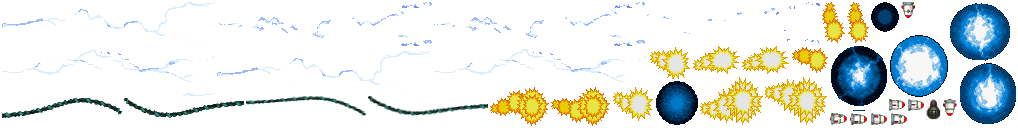
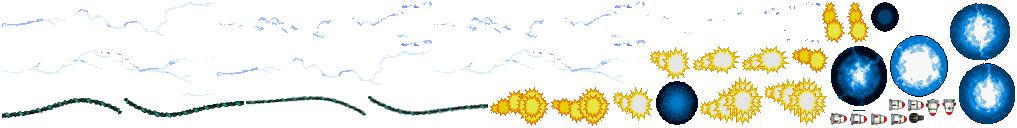
바인드 미사일, 수류탄

diff --git a/Robotopia/Classes/ResourceType.h b/Robotopia/Classes/ResourceType.h
@@ -34,6 +34,7 @@ enum SpriteType
 	ST_MESSAGE_BOX,
 	ST_BAR_CONTAINER,
 	ST_BAR,
+	ST_GRENADE,
 	ST_ETC_END,
 
 	ST_FRONT_NONE = 99,
@@ -301,6 +302,7 @@ enum AnimationType
 	AT_MISSILE_PLAYER_LINEAR,
 	AT_MISSILE_AIMING,
 	AT_MISSILE_THUNDER,
+	AT_MISSILE_BIND,
 	AT_MISSILE_END,
 
 	AT_TRAP_START = 700,
